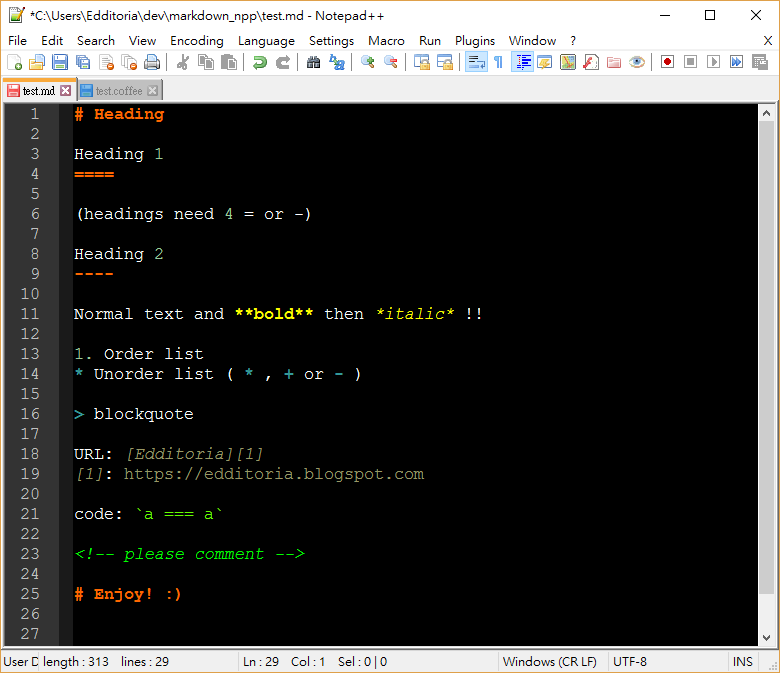
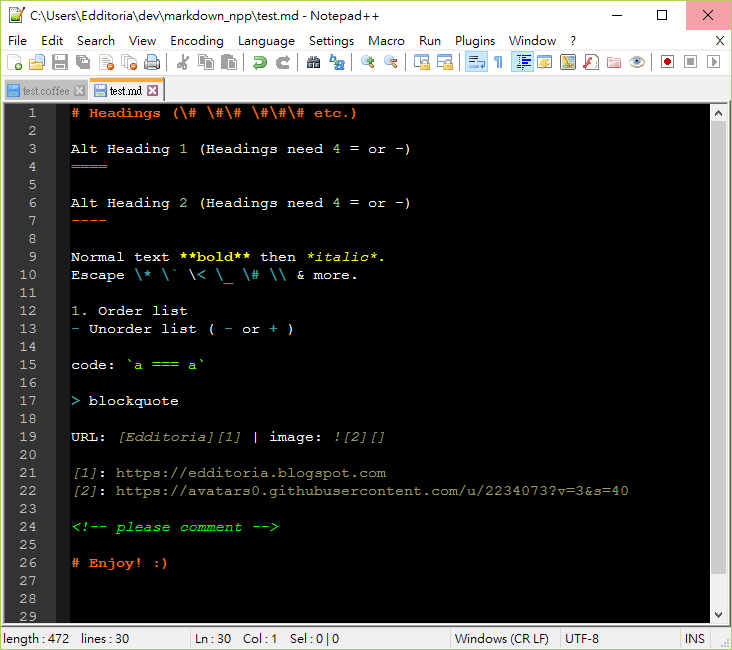
update screenshots

diff --git a/test.md b/test.md
@@ -1,25 +1,29 @@
-# Heading
+# Headings (\# \#\# \#\#\# etc.)
 
-Heading 1
+Alt Heading 1 (Headings need 4 = or -)
 ====
 
-(headings need 4 = or -)
-
-Heading 2
+Alt Heading 2 (Headings need 4 = or -)
 ----
 
-Normal text and **bold** then *italic* !!
+Normal text **bold** then *italic*.
+Escape \* \` \< \_ \# \\ & more.
 
 1. Order list
-* Unorder list ( * , + or - )
+- Unorder list ( - or + )
+
+code: `a === a`
 
 > blockquote
 
-URL: [Edditoria][1]
-[1]: https://edditoria.blogspot.com
+URL: [Edditoria][1] | image: ![2][]
 
-code: `a === a`
+[1]: https://edditoria.blogspot.com
+[2]: https://avatars0.githubusercontent.com/u/2234073?v=3&s=40
 
 <!-- please comment -->
 
 # Enjoy! :)
+
+
+

diff --git a/README.md b/README.md
@@ -36,11 +36,9 @@ If you are a Notepad++ and Markdown user, you may like it!
 ![Markdown in Deep Black Theme of Notepad++][screen_deep_black]
 
 Supports file extensions: `.markdown` and `.md`  
-Tested: Notepad++ v6.9.1 (Windows 7)
+Tested: Notepad++ v7.2.2 (Windows 10)
 
-I also created *Coffeescript syntax highlighting*: [link][coffeescript] (for Zenburn theme only)
-
-## How to Use?
+## Usage
 
 1. Download the Markdown language definition file
   - **Default Theme** : [userDefineLang_markdown.xml][default_xml]
